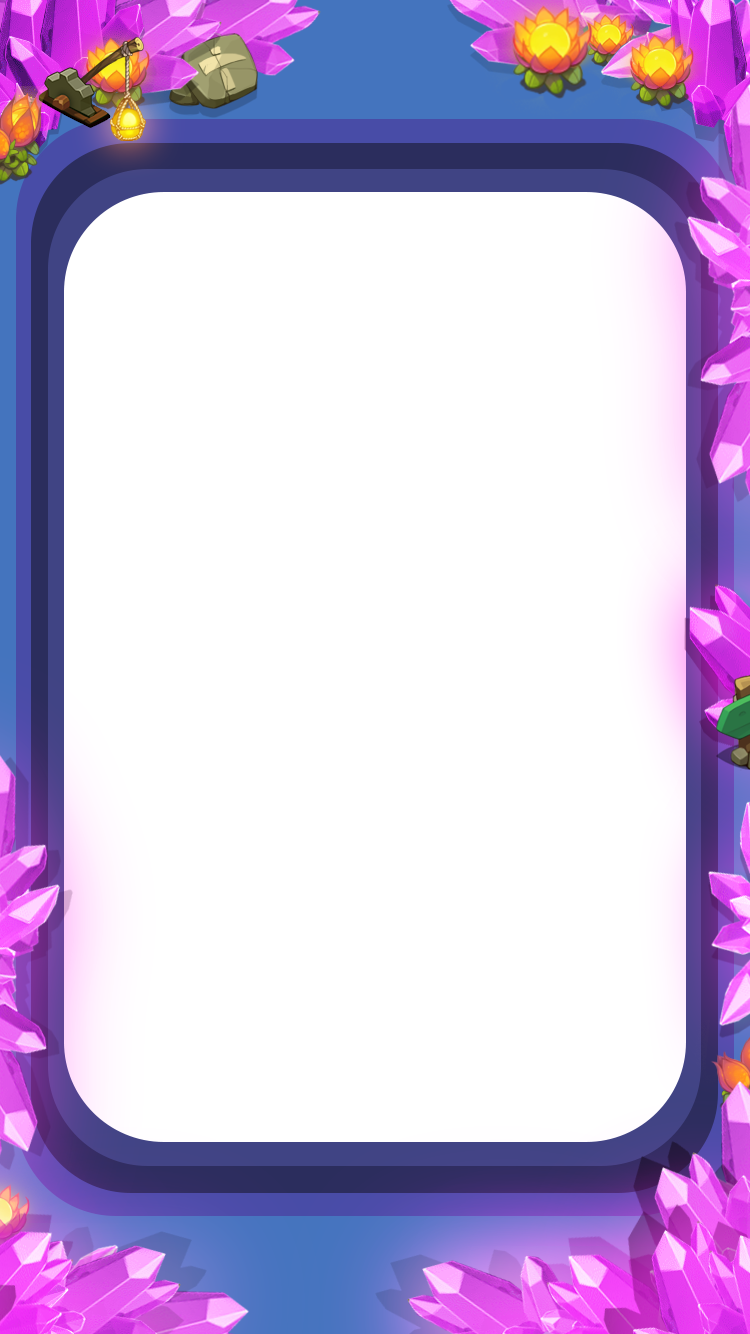
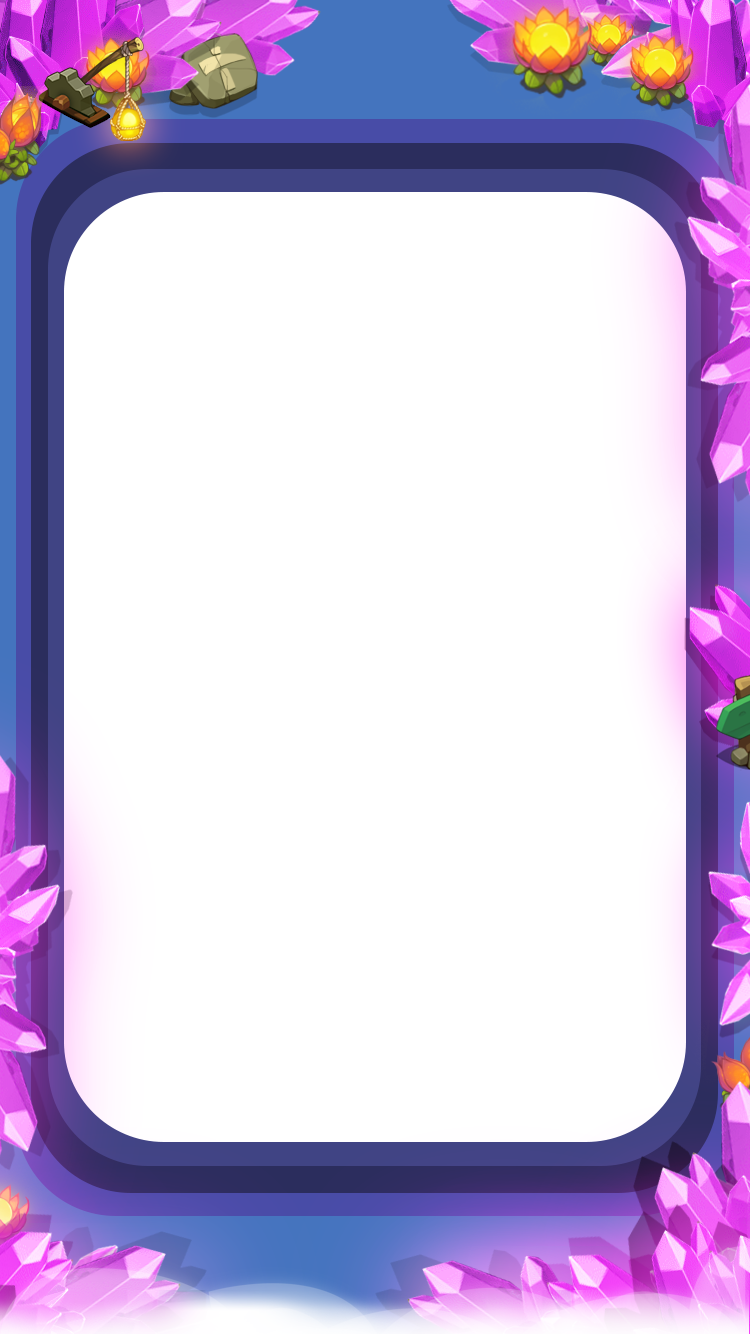
no message

Changed region(s): [[0.0, 0.922, 1.0, 1.0]]

diff --git a/Game3D01/src/ui/layaMaxUI.ts b/Game3D01/src/ui/layaMaxUI.ts
@@ -386,7 +386,8 @@ export module ui.test {
 		public gongjishu:Laya.FontClip;
 		public hpAddFc:Laya.FontClip;
 		public atkAddFc:Laya.FontClip;
-        public static  uiView:any ={"type":"View","props":{"width":750,"height":1334},"compId":1,"child":[{"type":"viewbg","props":{"runtime":"ui.game.viewbgUI"},"compId":51},{"type":"Box","props":{"width":750,"var":"mainBox","height":1334,"centerY":0},"compId":49,"child":[{"type":"Button","props":{"y":466,"x":114,"visible":false,"var":"zuo","stateNum":1,"skin":"main/btn_zuo.png","anchorY":0.5,"anchorX":0.5},"compId":43},{"type":"Button","props":{"y":467,"x":636,"width":63,"visible":false,"var":"you","stateNum":1,"skin":"main/btn_zuo.png","scaleX":-1,"anchorY":0.5,"anchorX":0.5},"compId":44},{"type":"juese_1","props":{"y":117,"x":251,"runtime":"ui.test.juese_1UI"},"compId":50},{"type":"Image","props":{"y":582,"x":241,"var":"xuan","skin":"juese/juese_yixuanze.png"},"compId":45},{"type":"Box","props":{"y":906,"x":0,"width":751,"height":428},"compId":94,"child":[{"type":"Image","props":{"y":122,"width":495,"skin":"juese/juese_zi.png","sizeGrid":"0,16,0,15","height":305},"compId":31},{"type":"Image","props":{"y":2,"x":37,"var":"shengming","skin":"juese/juese_di.png"},"compId":21,"child":[{"type":"Image","props":{"y":92,"x":41,"skin":"juese/juese_jiaxue.png"},"compId":9},{"type":"Image","props":{"y":63,"x":123,"skin":"main/juese_sheng.png"},"compId":10},{"type":"Label","props":{"y":5,"x":54,"width":74,"text":"生命","height":39,"fontSize":36,"color":"#ffffff","align":"left"},"compId":22},{"type":"Button","props":{"y":341,"x":91,"width":182,"var":"shengmingniu","stateNum":1,"skin":"main/btn_lv.png","sizeGrid":"41,31,38,33","height":91,"anchorY":0.5,"anchorX":0.5},"compId":32,"child":[{"type":"Image","props":{"y":12,"x":71,"skin":"juese/shengzizi.png","scaleY":0.8,"scaleX":0.8},"compId":60},{"type":"Sprite","props":{"y":38.5,"x":40,"texture":"main/jinbi.png","scaleY":0.5,"scaleX":0.5},"compId":75},{"type":"Text","props":{"y":37,"x":70.5,"var":"hpGold","text":"1000","fontSize":28,"color":"#ffffff","align":"left","runtime":"laya.display.Text"},"compId":76}]},{"type":"Image","props":{"y":171,"x":32,"skin":"juese/shengming.png"},"compId":68},{"type":"FontClip","props":{"y":177,"x":69,"width":461,"var":"shengmingjia","value":"+1","skin":"main/clipshuzi.png","sheet":"123456 7890-+ /:cdef","scaleY":0.25,"scaleX":0.25,"height":115,"align":"center"},"compId":69},{"type":"Box","props":{"y":307.25,"x":0,"var":"box1"},"compId":72,"child":[{"type":"Image","props":{"y":4.5,"x":16,"skin":"juese/juese_tiaoxia.png"},"compId":12},{"type":"Image","props":{"y":4.5,"x":16,"width":151,"var":"tiao","skin":"main/juese_tiaoshang.png","height":31},"compId":13},{"type":"Button","props":{"y":20.5,"x":184,"var":"jia","stateNum":1,"skin":"juese/btn_jia.png","anchorY":0.5,"anchorX":0.5},"compId":59},{"type":"Image","props":{"y":2.5,"skin":"main/baoshi.png"},"compId":58},{"type":"FontClip","props":{"y":45,"x":11,"width":917,"var":"xueshu","value":"1299/1234","skin":"main/clipshuzi.png","sheet":"123456 7890-+ /:cdef","scaleY":0.2,"scaleX":0.2,"height":115,"align":"center"},"compId":14}]},{"type":"FontClip","props":{"y":217,"x":103,"width":180,"var":"hpLv","value":"99","spaceX":-3,"skin":"main/clipshuzi.png","sheet":"123456 7890-+ /:vbnd","scaleY":0.25,"scaleX":0.25,"height":113,"align":"center"},"compId":86},{"type":"Sprite","props":{"y":213,"x":37.5,"texture":"main/dengji.png","scaleY":0.6,"scaleX":0.6},"compId":87}]},{"type":"Image","props":{"x":266,"var":"gongji","skin":"juese/juese_di.png"},"compId":23,"child":[{"type":"Image","props":{"y":92,"x":41,"skin":"juese/juese_jiagong.png"},"compId":24},{"type":"Image","props":{"y":63,"x":123,"skin":"main/juese_sheng.png"},"compId":25},{"type":"Label","props":{"y":5,"x":54,"width":74,"text":"攻击","height":39,"fontSize":36,"color":"#ffffff","align":"left"},"compId":29},{"type":"Button","props":{"y":342,"x":87,"width":182,"var":"gongjiniu","stateNum":1,"skin":"main/btn_lv.png","sizeGrid":"41,31,38,33","height":91,"anchorY":0.5,"anchorX":0.5},"compId":66,"child":[{"type":"Image","props":{"y":13,"x":77,"skin":"juese/shengzizi.png","scaleY":0.8,"scaleX":0.8},"compId":77},{"type":"Sprite","props":{"y":39,"x":46,"texture":"main/jinbi.png","scaleY":0.5,"scaleX":0.5},"compId":78},{"type":"Text","props":{"y":38,"x":76,"var":"atkGold","text":"1000","fontSize":28,"color":"#ffffff","align":"left","runtime":"laya.display.Text"},"compId":79}]},{"type":"Image","props":{"y":172,"x":28,"skin":"juese/gongji.png"},"compId":70},{"type":"FontClip","props":{"y":175,"x":70,"width":461,"var":"gongjijia","value":"+1","skin":"main/clipshuzi.png","sheet":"123456 7890-+ /:cdef","scaleY":0.25,"scaleX":0.25,"height":115,"align":"center"},"compId":71},{"type":"Box","props":{"y":307.5,"x":-7,"var":"box2"},"compId":73,"child":[{"type":"Image","props":{"y":4.5,"x":16,"skin":"juese/juese_tiaoxia.png"},"compId":61},{"type":"Image","props":{"y":4.5,"x":16,"var":"tiao2","skin":"main/juese_tiaoshang.png"},"compId":62},{"type":"Button","props":{"y":20.5,"x":184,"var":"jia2","stateNum":1,"skin":"juese/btn_jia.png","anchorY":0.5,"anchorX":0.5},"compId":63},{"type":"Image","props":{"y":2.5,"skin":"main/baoshi2.png"},"compId":64},{"type":"FontClip","props":{"y":45,"x":11,"width":910,"var":"gongshu","value":"1299/1234","skin":"main/clipshuzi.png","sheet":"123456 7890-+ /:cdef","scaleY":0.2,"scaleX":0.2,"height":115,"align":"center"},"compId":65}]},{"type":"FontClip","props":{"y":213,"x":104,"width":180,"var":"atkLv","value":"99","spaceX":-3,"skin":"main/clipshuzi.png","sheet":"123456 7890-+ /:vbnd","scaleY":0.25,"scaleX":0.25,"height":113,"align":"center"},"compId":88},{"type":"Sprite","props":{"y":209,"x":39,"texture":"main/dengji.png","scaleY":0.6,"scaleX":0.6},"compId":89}]},{"type":"Box","props":{"y":1,"x":496,"width":327,"height":427},"compId":93,"child":[{"type":"Image","props":{"y":122,"x":0,"width":256,"skin":"juese/juese_lan.png","sizeGrid":"0,16,0,15","height":305},"compId":30},{"type":"Image","props":{"x":40,"width":175,"skin":"juese/juese_hei.png","sizeGrid":"23,70,19,34","height":367,"alpha":0.5},"compId":38},{"type":"Image","props":{"y":206,"x":41,"skin":"juese/juesekuai.png"},"compId":40},{"type":"Image","props":{"y":49,"x":39,"width":177,"var":"jinengtubiao","skin":"main/kawen.png","height":177},"compId":39},{"type":"Label","props":{"y":10,"x":59,"width":133,"var":"jinengming","text":"技能名字","height":33,"fontSize":30,"color":"#f3e9e9","align":"center"},"compId":41},{"type":"Label","props":{"y":254,"x":48,"wordWrap":true,"width":157,"var":"skillLabel","text":"技能说明技能说明技能说明技能说明技能说明","height":114,"fontSize":22,"color":"#f3e9e9","align":"center"},"compId":42}]}]},{"type":"Box","props":{"y":787,"x":36},"compId":95,"child":[{"type":"Image","props":{"y":4,"width":674,"skin":"juese/juese_hei.png","sizeGrid":"15,26,22,22","height":69,"alpha":0.5},"compId":53},{"type":"Sprite","props":{"x":63,"texture":"juese/juese_jiaxue.png"},"compId":54},{"type":"Sprite","props":{"y":2,"x":364,"texture":"juese/juese_jiagong.png"},"compId":55},{"type":"FontClip","props":{"y":23,"x":169,"var":"shengmingshu","value":"600","skin":"main/clipshuzi.png","sheet":"123456 7890-+ /:cdef","scaleY":0.3,"scaleX":0.3,"align":"left"},"compId":56},{"type":"FontClip","props":{"y":23,"x":460,"var":"gongjishu","value":"600","skin":"main/clipshuzi.png","sheet":"123456 7890-+ /:cdef","scaleY":0.3,"scaleX":0.3,"align":"left"},"compId":57},{"type":"FontClip","props":{"y":23,"x":250,"var":"hpAddFc","value":"+11","skin":"main/greenFont.png","sheet":"123456 7890-+ /:%.ab","scaleY":0.3,"scaleX":0.3,"align":"left"},"compId":90},{"type":"FontClip","props":{"y":23,"x":542,"var":"atkAddFc","value":"+11","skin":"main/greenFont.png","sheet":"123456 7890-+ /:%.ab","scaleY":0.3,"scaleX":0.3,"align":"left"},"compId":91}]}]}],"loadList":["main/btn_zuo.png","test/juese_1.ui","juese/juese_yixuanze.png","juese/juese_zi.png","juese/juese_di.png","juese/juese_jiaxue.png","main/juese_sheng.png","main/btn_lv.png","juese/shengzizi.png","main/jinbi.png","juese/shengming.png","main/clipshuzi.png","juese/juese_tiaoxia.png","main/juese_tiaoshang.png","juese/btn_jia.png","main/baoshi.png","main/dengji.png","juese/juese_jiagong.png","juese/gongji.png","main/baoshi2.png","juese/juese_lan.png","juese/juese_hei.png","juese/juesekuai.png","main/kawen.png","main/greenFont.png"],"loadList3D":[]};
+		public lvEff:ui.test.shengjiEFFUI;
+        public static  uiView:any ={"type":"View","props":{"width":750,"height":1334},"compId":1,"child":[{"type":"viewbg","props":{"runtime":"ui.game.viewbgUI"},"compId":51},{"type":"Box","props":{"x":0,"width":750,"var":"mainBox","height":1334,"centerY":0},"compId":49,"child":[{"type":"Button","props":{"y":466,"x":114,"visible":false,"var":"zuo","stateNum":1,"skin":"main/btn_zuo.png","anchorY":0.5,"anchorX":0.5},"compId":43},{"type":"Button","props":{"y":467,"x":636,"width":63,"visible":false,"var":"you","stateNum":1,"skin":"main/btn_zuo.png","scaleX":-1,"anchorY":0.5,"anchorX":0.5},"compId":44},{"type":"juese_1","props":{"y":117,"x":251,"runtime":"ui.test.juese_1UI"},"compId":50},{"type":"Image","props":{"y":582,"x":241,"var":"xuan","skin":"juese/juese_yixuanze.png"},"compId":45},{"type":"Box","props":{"y":906,"x":0,"width":751,"height":428},"compId":94,"child":[{"type":"Image","props":{"y":122,"width":495,"skin":"juese/juese_zi.png","sizeGrid":"0,16,0,15","height":305},"compId":31},{"type":"Image","props":{"y":2,"x":37,"var":"shengming","skin":"juese/juese_di.png"},"compId":21,"child":[{"type":"Image","props":{"y":92,"x":41,"skin":"juese/juese_jiaxue.png"},"compId":9},{"type":"Image","props":{"y":63,"x":123,"skin":"main/juese_sheng.png"},"compId":10},{"type":"Label","props":{"y":5,"x":54,"width":74,"text":"生命","height":39,"fontSize":36,"color":"#ffffff","align":"left"},"compId":22},{"type":"Button","props":{"y":341,"x":91,"width":182,"var":"shengmingniu","stateNum":1,"skin":"main/btn_lv.png","sizeGrid":"41,31,38,33","height":91,"anchorY":0.5,"anchorX":0.5},"compId":32,"child":[{"type":"Image","props":{"y":12,"x":71,"skin":"juese/shengzizi.png","scaleY":0.8,"scaleX":0.8},"compId":60},{"type":"Sprite","props":{"y":38.5,"x":40,"texture":"main/jinbi.png","scaleY":0.5,"scaleX":0.5},"compId":75},{"type":"Text","props":{"y":37,"x":70.5,"var":"hpGold","text":"1000","fontSize":28,"color":"#ffffff","align":"left","runtime":"laya.display.Text"},"compId":76}]},{"type":"Image","props":{"y":171,"x":32,"skin":"juese/shengming.png"},"compId":68},{"type":"FontClip","props":{"y":177,"x":69,"width":461,"var":"shengmingjia","value":"+1","skin":"main/clipshuzi.png","sheet":"123456 7890-+ /:cdef","scaleY":0.25,"scaleX":0.25,"height":115,"align":"center"},"compId":69},{"type":"Box","props":{"y":307.25,"x":0,"var":"box1"},"compId":72,"child":[{"type":"Image","props":{"y":4.5,"x":16,"skin":"juese/juese_tiaoxia.png"},"compId":12},{"type":"Image","props":{"y":4.5,"x":16,"width":151,"var":"tiao","skin":"main/juese_tiaoshang.png","height":31},"compId":13},{"type":"Button","props":{"y":20.5,"x":184,"var":"jia","stateNum":1,"skin":"juese/btn_jia.png","anchorY":0.5,"anchorX":0.5},"compId":59},{"type":"Image","props":{"y":2.5,"skin":"main/baoshi.png"},"compId":58},{"type":"FontClip","props":{"y":45,"x":11,"width":917,"var":"xueshu","value":"1299/1234","skin":"main/clipshuzi.png","sheet":"123456 7890-+ /:cdef","scaleY":0.2,"scaleX":0.2,"height":115,"align":"center"},"compId":14}]},{"type":"FontClip","props":{"y":217,"x":103,"width":180,"var":"hpLv","value":"99","spaceX":-3,"skin":"main/clipshuzi.png","sheet":"123456 7890-+ /:vbnd","scaleY":0.25,"scaleX":0.25,"height":113,"align":"center"},"compId":86},{"type":"Sprite","props":{"y":213,"x":37.5,"texture":"main/dengji.png","scaleY":0.6,"scaleX":0.6},"compId":87}]},{"type":"Image","props":{"x":266,"var":"gongji","skin":"juese/juese_di.png"},"compId":23,"child":[{"type":"Image","props":{"y":92,"x":41,"skin":"juese/juese_jiagong.png"},"compId":24},{"type":"Image","props":{"y":63,"x":123,"skin":"main/juese_sheng.png"},"compId":25},{"type":"Label","props":{"y":5,"x":54,"width":74,"text":"攻击","height":39,"fontSize":36,"color":"#ffffff","align":"left"},"compId":29},{"type":"Button","props":{"y":342,"x":87,"width":182,"var":"gongjiniu","stateNum":1,"skin":"main/btn_lv.png","sizeGrid":"41,31,38,33","height":91,"anchorY":0.5,"anchorX":0.5},"compId":66,"child":[{"type":"Image","props":{"y":13,"x":77,"skin":"juese/shengzizi.png","scaleY":0.8,"scaleX":0.8},"compId":77},{"type":"Sprite","props":{"y":39,"x":46,"texture":"main/jinbi.png","scaleY":0.5,"scaleX":0.5},"compId":78},{"type":"Text","props":{"y":38,"x":76,"var":"atkGold","text":"1000","fontSize":28,"color":"#ffffff","align":"left","runtime":"laya.display.Text"},"compId":79}]},{"type":"Image","props":{"y":172,"x":28,"skin":"juese/gongji.png"},"compId":70},{"type":"FontClip","props":{"y":175,"x":70,"width":461,"var":"gongjijia","value":"+1","skin":"main/clipshuzi.png","sheet":"123456 7890-+ /:cdef","scaleY":0.25,"scaleX":0.25,"height":115,"align":"center"},"compId":71},{"type":"Box","props":{"y":307.5,"x":-7,"var":"box2"},"compId":73,"child":[{"type":"Image","props":{"y":4.5,"x":16,"skin":"juese/juese_tiaoxia.png"},"compId":61},{"type":"Image","props":{"y":4.5,"x":16,"var":"tiao2","skin":"main/juese_tiaoshang.png"},"compId":62},{"type":"Button","props":{"y":20.5,"x":184,"var":"jia2","stateNum":1,"skin":"juese/btn_jia.png","anchorY":0.5,"anchorX":0.5},"compId":63},{"type":"Image","props":{"y":2.5,"skin":"main/baoshi2.png"},"compId":64},{"type":"FontClip","props":{"y":45,"x":11,"width":910,"var":"gongshu","value":"1299/1234","skin":"main/clipshuzi.png","sheet":"123456 7890-+ /:cdef","scaleY":0.2,"scaleX":0.2,"height":115,"align":"center"},"compId":65}]},{"type":"FontClip","props":{"y":213,"x":104,"width":180,"var":"atkLv","value":"99","spaceX":-3,"skin":"main/clipshuzi.png","sheet":"123456 7890-+ /:vbnd","scaleY":0.25,"scaleX":0.25,"height":113,"align":"center"},"compId":88},{"type":"Sprite","props":{"y":209,"x":39,"texture":"main/dengji.png","scaleY":0.6,"scaleX":0.6},"compId":89}]},{"type":"Box","props":{"y":1,"x":496,"width":327,"height":427},"compId":93,"child":[{"type":"Image","props":{"y":122,"x":0,"width":256,"skin":"juese/juese_lan.png","sizeGrid":"0,16,0,15","height":305},"compId":30},{"type":"Image","props":{"x":40,"width":175,"skin":"juese/juese_hei.png","sizeGrid":"23,70,19,34","height":367,"alpha":0.5},"compId":38},{"type":"Image","props":{"y":206,"x":41,"skin":"juese/juesekuai.png"},"compId":40},{"type":"Image","props":{"y":49,"x":39,"width":177,"var":"jinengtubiao","skin":"main/kawen.png","height":177},"compId":39},{"type":"Label","props":{"y":10,"x":59,"width":133,"var":"jinengming","text":"技能名字","height":33,"fontSize":30,"color":"#f3e9e9","align":"center"},"compId":41},{"type":"Label","props":{"y":254,"x":48,"wordWrap":true,"width":157,"var":"skillLabel","text":"技能说明技能说明技能说明技能说明技能说明","height":114,"fontSize":22,"color":"#f3e9e9","align":"center"},"compId":42}]}]},{"type":"Box","props":{"y":787,"x":36},"compId":95,"child":[{"type":"Image","props":{"y":4,"width":674,"skin":"juese/juese_hei.png","sizeGrid":"15,26,22,22","height":69,"alpha":0.5},"compId":53},{"type":"Sprite","props":{"x":63,"texture":"juese/juese_jiaxue.png"},"compId":54},{"type":"Sprite","props":{"y":2,"x":364,"texture":"juese/juese_jiagong.png"},"compId":55},{"type":"FontClip","props":{"y":23,"x":169,"var":"shengmingshu","value":"600","skin":"main/clipshuzi.png","sheet":"123456 7890-+ /:cdef","scaleY":0.3,"scaleX":0.3,"align":"left"},"compId":56},{"type":"FontClip","props":{"y":23,"x":460,"var":"gongjishu","value":"600","skin":"main/clipshuzi.png","sheet":"123456 7890-+ /:cdef","scaleY":0.3,"scaleX":0.3,"align":"left"},"compId":57},{"type":"FontClip","props":{"y":23,"x":250,"var":"hpAddFc","value":"+11","skin":"main/greenFont.png","sheet":"123456 7890-+ /:%.ab","scaleY":0.3,"scaleX":0.3,"align":"left"},"compId":90},{"type":"FontClip","props":{"y":23,"x":542,"var":"atkAddFc","value":"+11","skin":"main/greenFont.png","sheet":"123456 7890-+ /:%.ab","scaleY":0.3,"scaleX":0.3,"align":"left"},"compId":91}]},{"type":"shengjiEFF","props":{"y":646,"x":383.5,"var":"lvEff","runtime":"ui.test.shengjiEFFUI"},"compId":97}]}],"loadList":["main/btn_zuo.png","test/juese_1.ui","juese/juese_yixuanze.png","juese/juese_zi.png","juese/juese_di.png","juese/juese_jiaxue.png","main/juese_sheng.png","main/btn_lv.png","juese/shengzizi.png","main/jinbi.png","juese/shengming.png","main/clipshuzi.png","juese/juese_tiaoxia.png","main/juese_tiaoshang.png","juese/btn_jia.png","main/baoshi.png","main/dengji.png","juese/juese_jiagong.png","juese/gongji.png","main/baoshi2.png","juese/juese_lan.png","juese/juese_hei.png","juese/juesekuai.png","main/kawen.png","main/greenFont.png"],"loadList3D":[]};
         constructor(){ super()}
         createChildren():void {
             super.createChildren();
@@ -467,6 +468,15 @@ export module ui.test {
         }
     }
     REG("ui.test.mainUIUI",mainUIUI);
+    export class MainUITestUI extends View {
+        public static  uiView:any ={"type":"View","props":{"width":750,"height":1334},"loadList":[],"loadList3D":[]};
+        constructor(){ super()}
+        createChildren():void {
+            super.createChildren();
+            this.createView(MainUITestUI.uiView);
+        }
+    }
+    REG("ui.test.MainUITestUI",MainUITestUI);
     export class moguiUI extends View {
 		public ani1:Laya.FrameAnimation;
 		public tan:Laya.Image;
@@ -698,6 +708,16 @@ export module ui.test {
         }
     }
     REG("ui.test.shengjiUI",shengjiUI);
+    export class shengjiEFFUI extends View {
+		public ani1:Laya.FrameAnimation;
+        public static  uiView:any ={"type":"View","props":{"width":100,"height":100},"compId":2,"child":[{"type":"Image","props":{"y":67,"x":0,"skin":"juese/monster_caster_01.png","anchorY":1,"anchorX":0.5},"compId":3}],"animations":[{"nodes":[{"target":3,"keyframes":{"y":[{"value":67,"tweenMethod":"linearNone","tween":true,"target":3,"key":"y","index":0}],"skin":[{"value":"juese/monster_caster_01.png","tweenMethod":"linearNone","tween":false,"target":3,"key":"skin","index":0},{"value":"juese/monster_caster_02.png","tweenMethod":"linearNone","tween":false,"target":3,"key":"skin","index":3},{"value":"juese/monster_caster_03.png","tweenMethod":"linearNone","tween":false,"target":3,"key":"skin","index":6},{"value":"juese/monster_caster_04.png","tweenMethod":"linearNone","tween":false,"target":3,"key":"skin","index":9},{"value":"juese/monster_caster_05.png","tweenMethod":"linearNone","tween":false,"target":3,"key":"skin","index":12},{"value":"juese/monster_caster_06.png","tweenMethod":"linearNone","tween":false,"target":3,"key":"skin","index":15},{"value":"juese/monster_caster_07.png","tweenMethod":"linearNone","tween":false,"target":3,"key":"skin","index":18},{"value":"juese/monster_caster_08.png","tweenMethod":"linearNone","tween":false,"target":3,"key":"skin","index":21},{"value":"juese/monster_caster_09.png","tweenMethod":"linearNone","tween":false,"target":3,"key":"skin","index":24}],"scaleY":[{"value":2,"tweenMethod":"linearNone","tween":true,"target":3,"key":"scaleY","index":0}],"scaleX":[{"value":2,"tweenMethod":"linearNone","tween":true,"target":3,"key":"scaleX","index":0}]}}],"name":"ani1","id":1,"frameRate":24,"action":0}],"loadList":["juese/monster_caster_01.png","juese/monster_caster_02.png","juese/monster_caster_03.png","juese/monster_caster_04.png","juese/monster_caster_05.png","juese/monster_caster_06.png","juese/monster_caster_07.png","juese/monster_caster_08.png","juese/monster_caster_09.png"],"loadList3D":[]};
+        constructor(){ super()}
+        createChildren():void {
+            super.createChildren();
+            this.createView(shengjiEFFUI.uiView);
+        }
+    }
+    REG("ui.test.shengjiEFFUI",shengjiEFFUI);
     export class SkillGridUI extends View {
 		public txt:Laya.Label;
 		public imgBox:Laya.Box;

diff --git a/Game3D01/src/main/scene/main/role/RoleView.ts b/Game3D01/src/main/scene/main/role/RoleView.ts
@@ -25,9 +25,21 @@ export default class RoleView extends ui.test.jueseUI {
         this.jia2.clickHandler = new Laya.Handler( this,this.jiaFun , [GoldType.BLUE_DIAMONG ] );
         this.autoEvent.onEvent( GameEvent.GOLD_CHANGE , this,this.goldChangeFun );
         this.autoEvent.onEvent( GameEvent.HERO_UPDATE , this,this.heroFun );
-        
+        Laya.stage.on( GameEvent.HERO_UPDATE , this, this.heroLvUpFun );
         //let sss = Session.heroData.getHeroData(1);
         //console.log( sss );
+        this.lvEff.visible = false;
+    }
+
+    public heroLvUpFun():void{
+        this.lvEff.visible = true;
+        this.lvEff.ani1.gotoAndStop(0);
+        this.lvEff.ani1.play( 0,false );
+        this.lvEff.ani1.on( Laya.Event.COMPLETE ,this,this.efFun );
+    }
+
+    public efFun():void{
+        this.lvEff.visible = false;
     }
 
     public heroFun():void{

diff --git a/Game3D01/src/main/scene/main/MainView.ts b/Game3D01/src/main/scene/main/MainView.ts
@@ -21,6 +21,8 @@ export default class MainView extends Laya.Box {
     private initUI(): void {
         this.content = new Laya.Box();
         this.addChild(this.content);
+        this.content.height = Laya.stage.height - 122;
+        //这个容器在左上角00点 下面卡住底
         // this.views = [new WorldView(),new RoleView(),new TalentView(), new AchievementsView(),  new SettingView()];
     }
 
@@ -55,7 +57,9 @@ export default class MainView extends Laya.Box {
     {
         let view: Laya.View = this.views[index];
         view.removeSelf();
+        
         this.content.addChild(view);
+        view.bottom = 122;
         if (this.curIndex != null)  {
             var xx:number = index > this.curIndex ? GameConfig.width : -GameConfig.width;
             view.x = xx;

diff --git a/Game3D01/src/main/scene/main/MainScene.ts b/Game3D01/src/main/scene/main/MainScene.ts
@@ -21,7 +21,9 @@ export default class MainScene extends Laya.Sprite{
     }
 
     private initUI():void{
+        //这个是中间的xin
         this.mainView = new MainView();
+        //这个是上下ui
         this.mainUI = new MainUI();
         this.addChild(this.mainView);
         this.addChild(this.mainUI);
